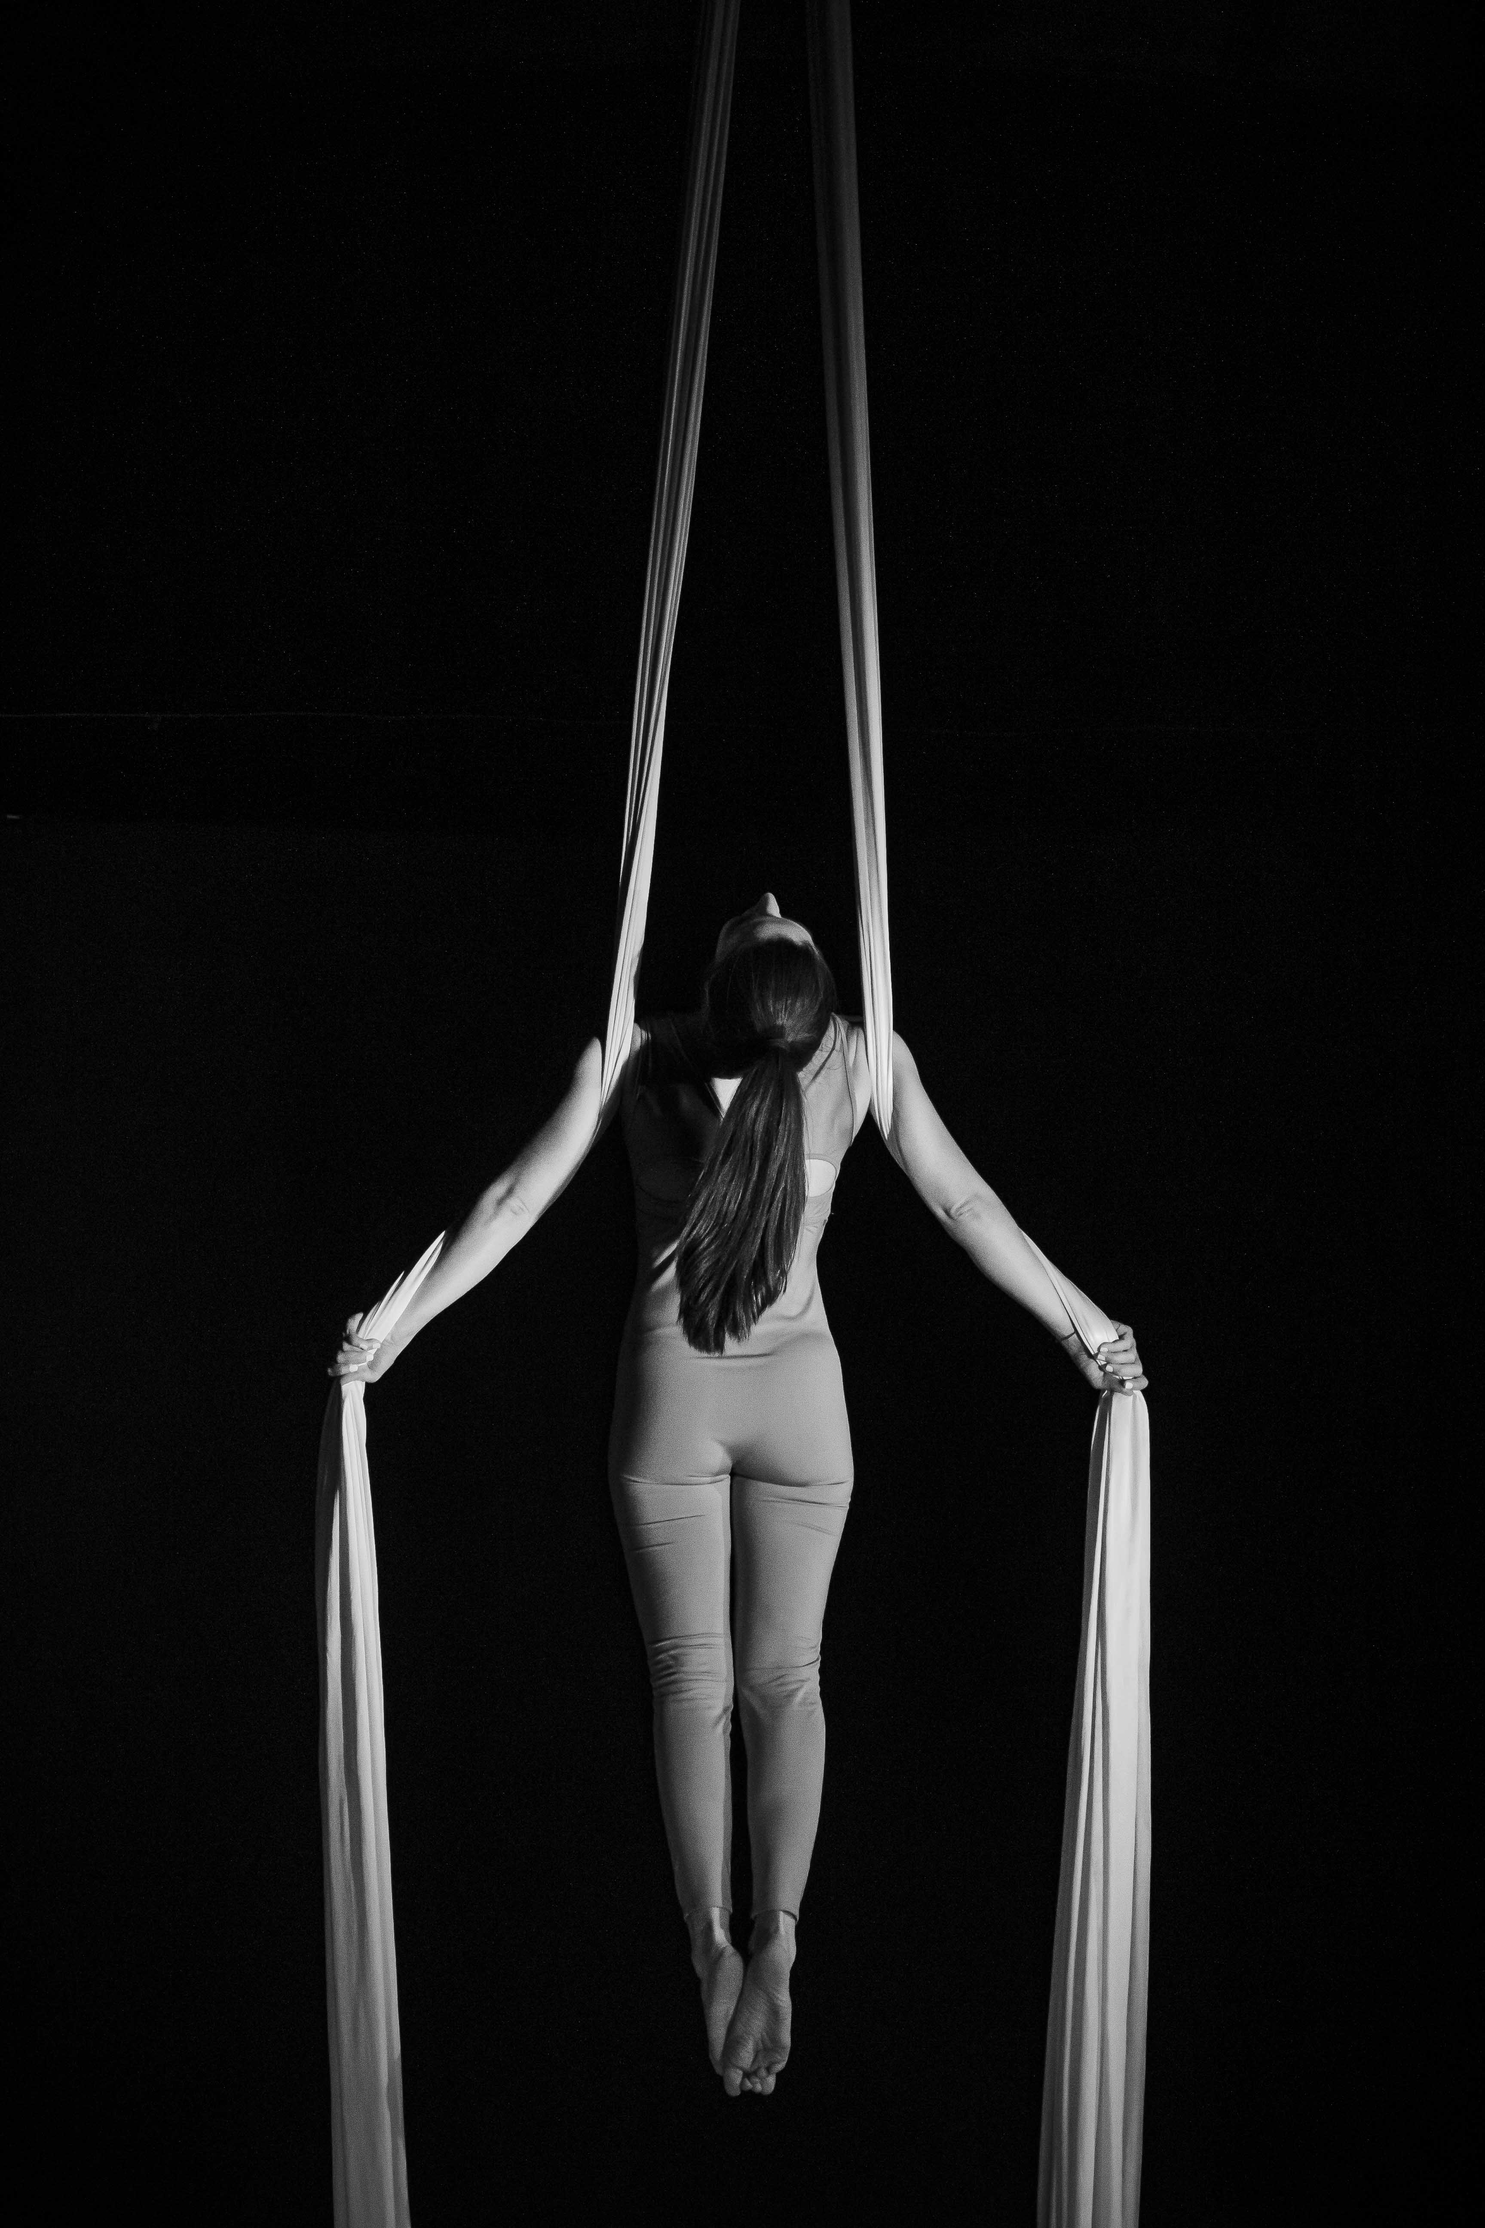
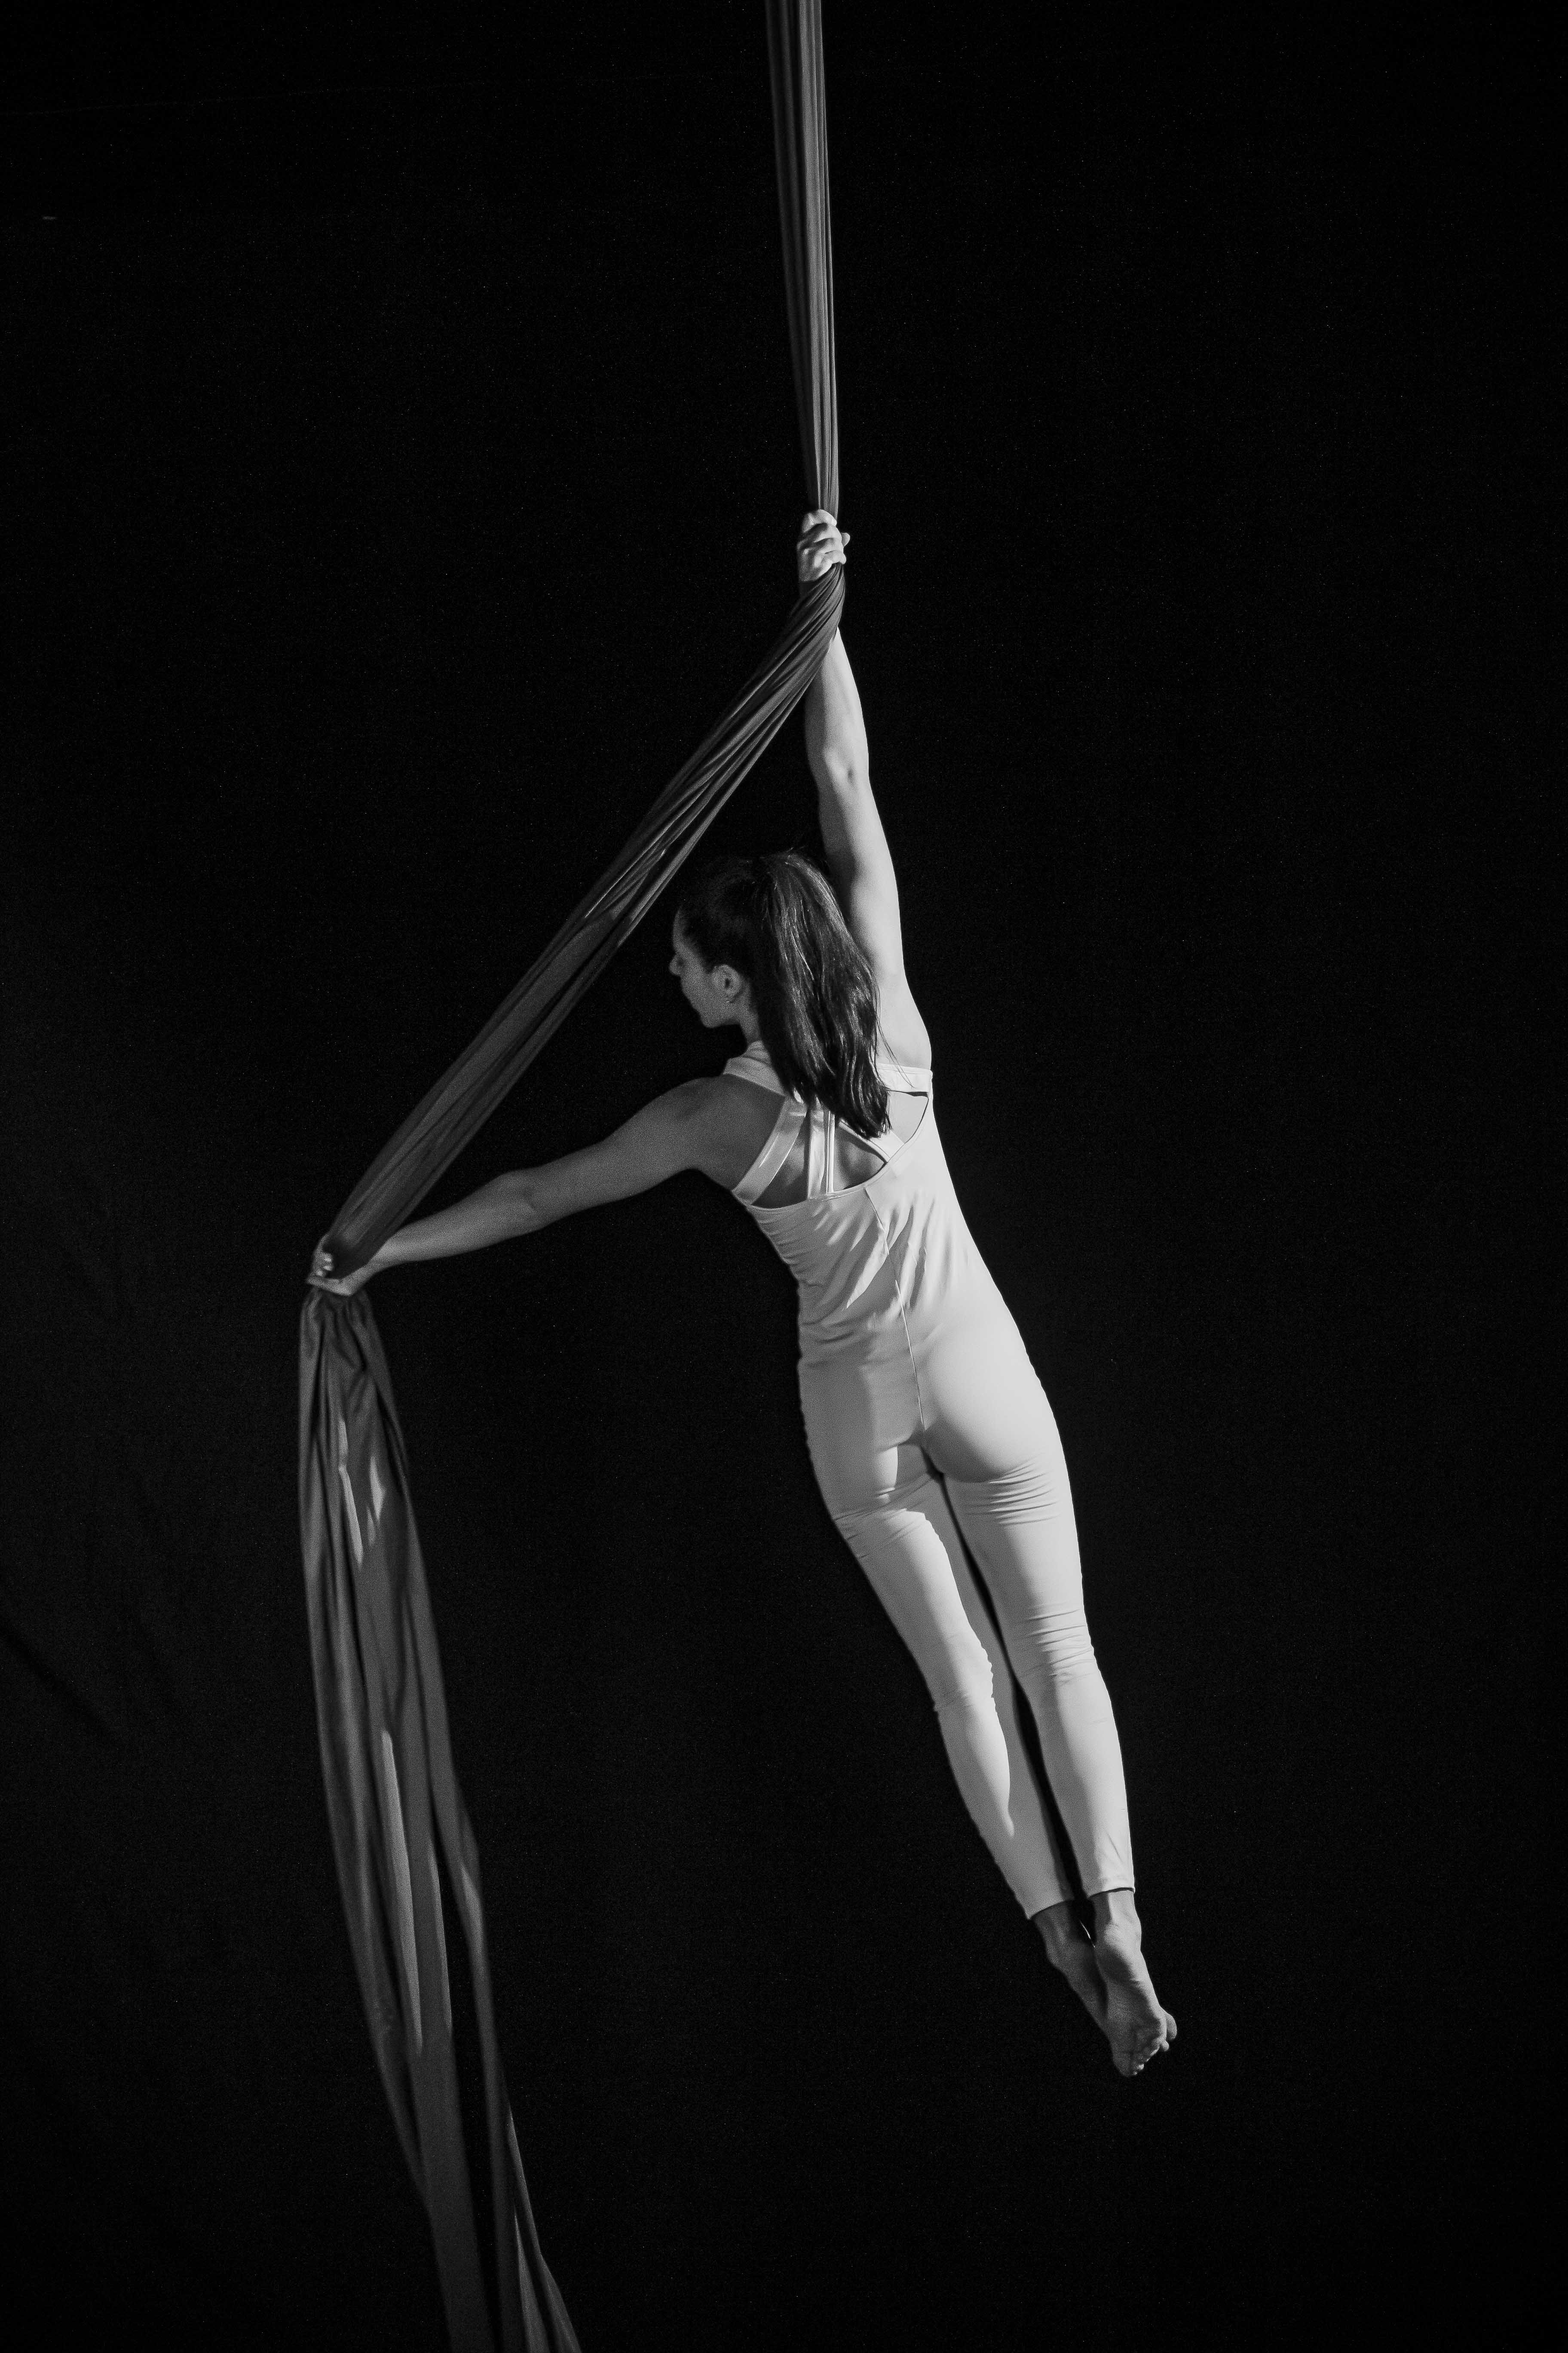
feat(assets): replace quote section photo with Cam 1 - M3 (1315)

Changed region(s): [[0.1858, 0.0, 0.7742, 1.0]]

diff --git a/frontend/src/components/landing/SecuritySection.tsx b/frontend/src/components/landing/SecuritySection.tsx
@@ -13,7 +13,7 @@ export const SecuritySection: React.FC = () => {
             <div className="relative w-full min-h-[420px] sm:min-h-0 sm:aspect-[3/4] rounded-3xl overflow-hidden shadow-2xl bg-surface-container border border-surface-container">
               <img
                 alt="Profesora Victoria guiando una postura segura en telas aéreas"
-                className="w-full h-full object-cover object-[50%_45%]"
+                className="w-full h-full object-cover object-center"
                 src={quoteBgImg}
               />
               <div className="absolute inset-0 bg-gradient-to-t from-primary/85 via-primary/25 to-transparent" />
